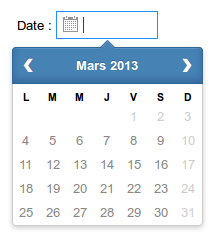
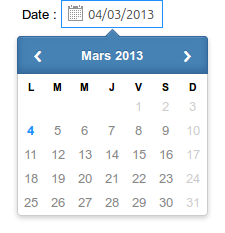
Add fonts

Changed region(s): [[0.0558, 0.0, 0.9488, 0.9914], [0.2233, 0.5408, 0.307, 0.721], [0.4744, 0.5408, 0.5302, 0.721]]

diff --git a/jquery.datepickr.css b/jquery.datepickr.css
@@ -1,11 +1,23 @@
+@font-face {
+	font-family: datepickr;
+	src: url(fonts/datepickr.eot);
+	src: url(fonts/datepickr.eot?#iefix) format('embedded-opentype'),
+	     url(fonts/datepickr.woff) format('woff'),
+	     url(fonts/datepickr.ttf) format('truetype'),
+	     url(fonts/datepickr.svg#datepickr) format('svg');
+	font-weight: normal;
+	font-style: normal;
+}
 
 .has-datepickr { background: url(calendar.png) 5px 50% no-repeat; padding-left: 25px; }
 
-.ui-datepickr { background: #FFF; border: 1px solid rgba(0, 0, 0, .2); border-radius: 4px; box-shadow: 0 2px 4px rgba(0, 0, 0, .2); position: absolute; -moz-transition: height 0.218s ease 0s; transition: height 0.218s ease 0s; z-index: 2000; }
-	.ui-datepickr:before { background: #EEE; border: solid #BBB; border-width: 1px 0 0 1px; content: ''; height: 10px; display: block; left: 0; margin: -6px auto 0; position: absolute; right: 0; -moz-transform: rotate(45deg); width: 10px; }
+.ui-datepickr { background: #FFF; border: 1px solid rgba(0, 0, 0, .2); border-radius: 4px; box-shadow: 0 2px 4px rgba(0, 0, 0, .2); position: absolute; z-index: 2; }
+	.ui-datepickr:before { background: #EEE; border: solid #BBB; border-width: 1px 0 0 1px; content: ''; height: 10px; display: block; left: 0; margin: -6px auto 0; position: absolute; right: 0; -moz-transform: rotate(45deg); -webkit-transform: rotate(45deg); transform: rotate(45deg); width: 10px; }
 	.ui-datepickr-month { display: inline-block; }
-	.ui-datepickr-month-header { background: #EEE; border: solid 1px #BBB; border-radius: 4px 4px 0 0; color: #555; font-weight: bold; margin: -1px -1px 5px; padding: 10px; text-align: center; }
-	.ui-datepickr-change-month { cursor: pointer; font-size: 140%; margin: -3px -10px; padding: 0 10px; }
+	.ui-datepickr-month-header { background: #EEE; border: solid 1px #BBB; border-bottom-color: #DDD; border-radius: 4px 4px 0 0; color: #555; font-weight: bold; margin: -1px -1px 5px; padding: 11px 10px 10px; text-align: center; }
+	.ui-datepickr-change-month:before { cursor: pointer; display: block; font-family: datepickr; font-size: 140%; margin: -1px -10px; padding: 0 10px; -webkit-font-smoothing: antialiased; }
+	.ui-datepickr-prev-month:before { content: '\276e'; }
+	.ui-datepickr-next-month:before { content: '\276f'; }
 	.ui-datepickr-change-month:hover { color: #000; }
 	.ui-datepickr-prev-month { float: left; }
 	.ui-datepickr-next-month { float: right; }
@@ -19,6 +31,8 @@
 	.ui-datepickr-day-of-month.ui-datepickr-today {}
 	.ui-datepickr-day-of-month.s { color: dodgerblue; font-weight: bold; }
 
+/* blue theme */
 	.ui-datepickr.blue:before,
 	.ui-datepickr.blue .ui-datepickr-month-header { background-color: steelblue; border-color: #369; color: #FFF; text-shadow: 0 -1px #369; }
 	.ui-datepickr.blue .ui-datepickr-month-header { box-shadow: 0 -3px 7px #369 inset, 0 1px 0 #69C inset; }
+/**/

diff --git a/jquery.datepickr.js b/jquery.datepickr.js
@@ -39,11 +39,11 @@ https://github.com/oub/jquery.datepickr/blob/master/GPL-license.txt
 		    todayDate = today.getDate(),
 		    firstWeekDay = date.getDay() === 0 ? 7 : date.getDay(),
 		    monthNumber = date.getMonth(),
-		    s = '';
-		s = '<div class="ui-datepickr-month">';
+		    s;
+		s  = '<div class="ui-datepickr-month">';
 		s += '<div class="ui-datepickr-month-header">';
-		s += '<a class="ui-datepickr-change-month ui-datepickr-next-month" data-month="' + nextMonth.getFullYear() + '-' + (nextMonth.getMonth() + 1) + '">❯</a>';
-		s += '<a class="ui-datepickr-change-month ui-datepickr-prev-month" data-month="' + prevMonth.getFullYear() + '-' + (prevMonth.getMonth() + 1) + '">❮</a>';
+		s += '<a class="ui-datepickr-change-month ui-datepickr-next-month" data-month="' + nextMonth.getFullYear() + '-' + (nextMonth.getMonth() + 1) + '"></a>';
+		s += '<a class="ui-datepickr-change-month ui-datepickr-prev-month" data-month="' + prevMonth.getFullYear() + '-' + (prevMonth.getMonth() + 1) + '"></a>';
 		s += months[date.getMonth()] + ' ' + date.getFullYear();
 		s += '</div>';
 		s += '<div class="ui-datepickr-week-days">';
@@ -74,7 +74,7 @@ https://github.com/oub/jquery.datepickr/blob/master/GPL-license.txt
 		return s;
 	};
 
-	$.fn.datepickr = function() {
+	$.fn.datepickr = function () {
 
 		return this
 		.addClass('has-datepickr')
@@ -149,8 +149,6 @@ https://github.com/oub/jquery.datepickr/blob/master/GPL-license.txt
 			// Restore the field state
 			$(this).data('datepickr', null).removeClass('datepickr-opened');
 		});
-
-		return this;
 	};
 
 

diff --git a/sample.html b/sample.html
@@ -26,6 +26,6 @@
 </head>
 <body>
 	<h1>jQuery Datepickr</h1>
-	<p>Date : <input name="date"/> <input name="date"/></p>
+	<p>Date : <input name="date"/></p>
 </body>
 </html>
